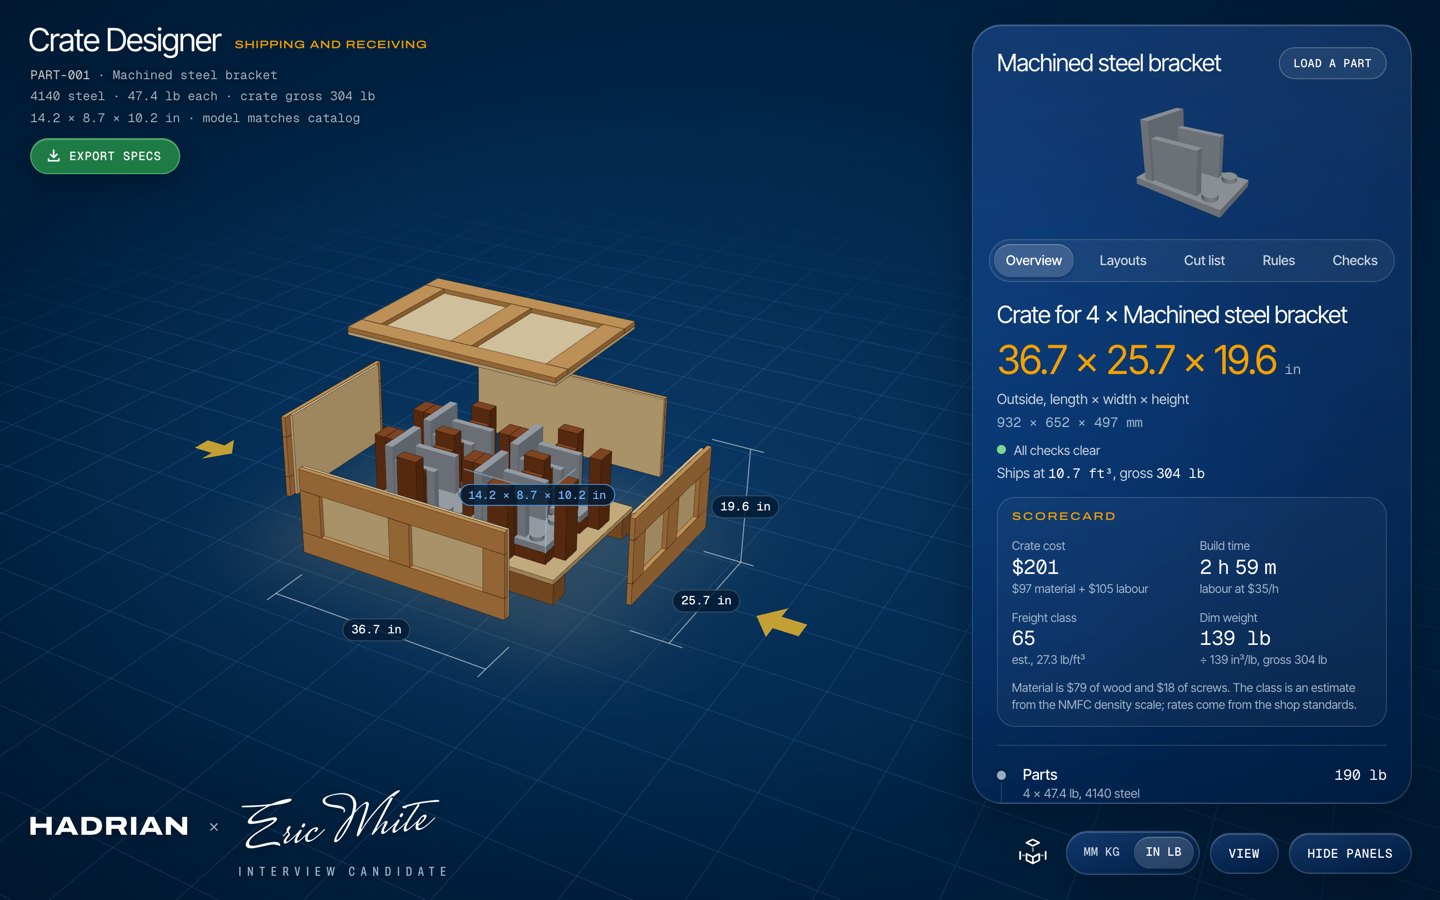
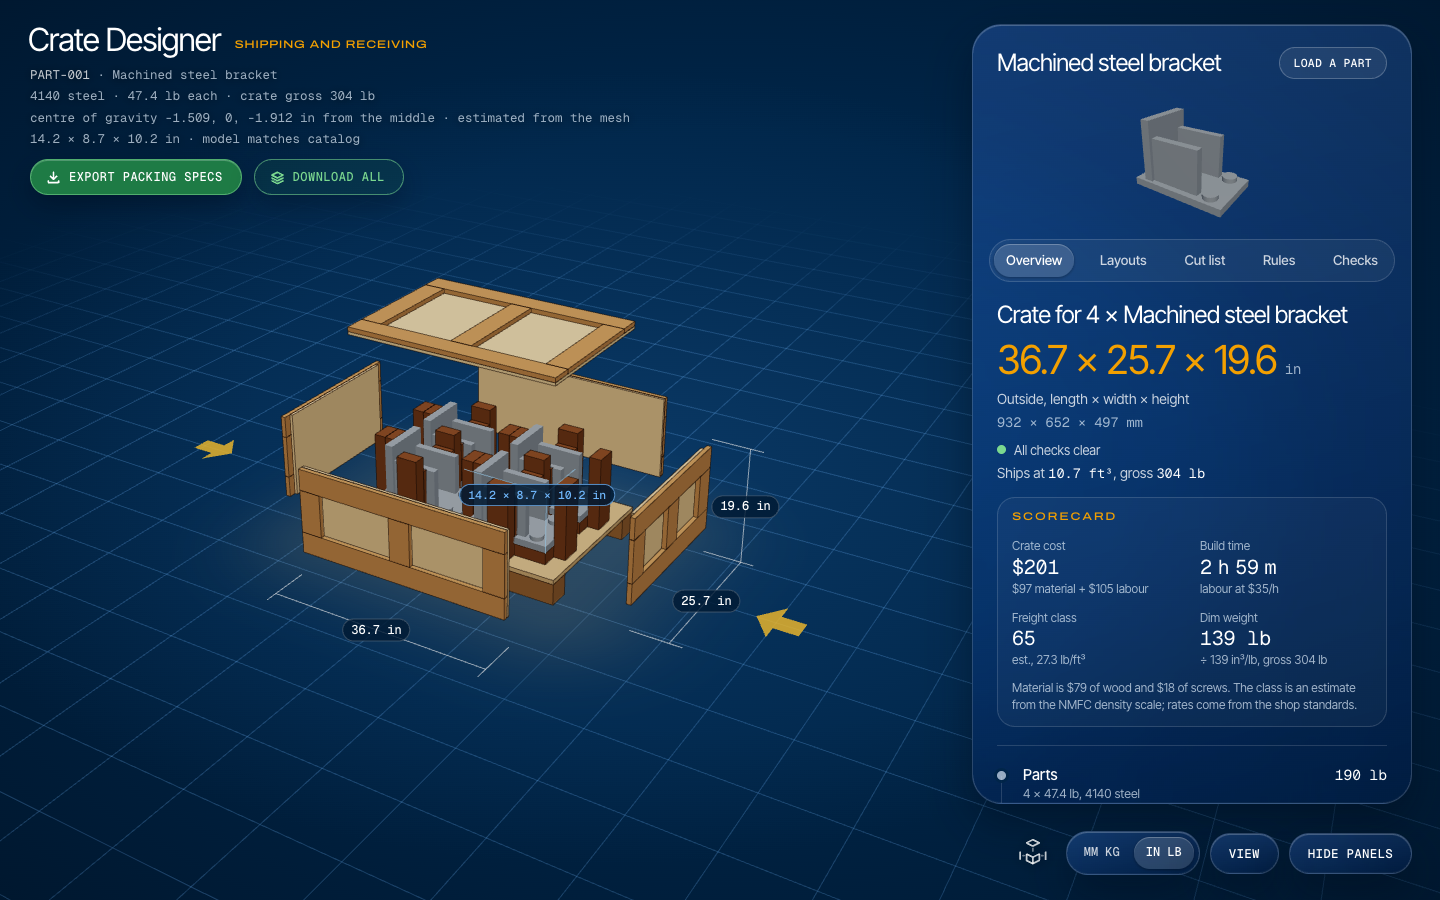
chore: remove the Hadrian credit, signature and brand references
- Remove the bottom-left credit ("HADRIAN × <name>" with the cursive
  signature) on desktop and at the foot of the mobile drawer, with its
  script font and the island's footer slot that only held it.
- Drop Hadrian from code comments, the README and the spec; the palette
  and type roles stay, described on their own.
- Update the two e2e tests that checked the credit.
- Retake the five desktop README screenshots without it.

diff --git a/src/components/shell/DesignerShell.tsx b/src/components/shell/DesignerShell.tsx
@@ -12,7 +12,6 @@ import { SizeLabels } from "../viewer/SizeLabels";
 import { StageMessage } from "../viewer/StageMessage";
 import { Flash } from "./ChangeFeedback";
 import { FileCheckDialog } from "./FileCheckDialog";
-import { Credit } from "./Credit";
 import styles from "./DesignerShell.module.css";
 import { PartHeader } from "./PartHeader";
 import { Tooltip } from "./Tooltip";
@@ -55,11 +54,10 @@ function useNarrow() {
 /**
  * Full-bleed layout: the 3D stage fills the window and four overlay regions
  * float above it — part title (top left), the island (upper right), the load
- * hint and credit (bottom left) and the view bar (bottom right).
+ * hint (bottom left) and the view bar (bottom right).
  *
  * Narrow screens: the stage still fills the window; the island becomes a right-side
- * drawer behind a hamburger, a summary chip shows the answer above a compact view bar, and the
- * credit moves to the foot of the drawer.
+ * drawer behind a hamburger, and a summary chip shows the answer above a compact view bar.
  */
 export function DesignerShell() {
   const panelsHidden = useView((s) => s.panelsHidden);
@@ -146,7 +144,7 @@ export function DesignerShell() {
       } else if (!island) {
         s.setInsets({ left: 0, top: 0, right: 0, bottom: 0 });
       } else if (s.panelsHidden) {
-        // Only the credit remains, bottom left; keep the crate above it.
+        // Only the view bar remains, bottom right; keep the crate above it.
         s.setInsets({ left: 0, top: 0, right: 0, bottom: FREE_BOTTOM });
       } else {
         s.setInsets({ left: FREE_LEFT, top: FREE_TOP, right: island.offsetWidth + ISLAND_GAP, bottom: FREE_BOTTOM });
@@ -235,9 +233,8 @@ export function DesignerShell() {
         />
         <ViewBar />
       </div>
-      {!narrow && <Credit />}
       {narrow && <div className={styles.scrim} data-testid="scrim" hidden={!drawerOpen} aria-hidden="true" onClick={closeDrawer} />}
-      <Island ref={islandRef} drawer={narrow ? { open: drawerOpen, onClose: closeDrawer } : undefined} footer={narrow ? <Credit inline /> : undefined} />
+      <Island ref={islandRef} drawer={narrow ? { open: drawerOpen, onClose: closeDrawer } : undefined} />
       <FileCheckDialog />
       {dragging && (
         <div className={styles.veil} data-testid="drop-veil">

diff --git a/src/app/layout.tsx b/src/app/layout.tsx
@@ -1,10 +1,10 @@
 import type { Metadata, Viewport } from "next";
-import { Archivo, Geist_Mono, Inter_Tight, Mrs_Saint_Delafield } from "next/font/google";
+import { Archivo, Geist_Mono, Inter_Tight } from "next/font/google";
 import "./globals.css";
 
 /*
- * Type roles follow hadrian.co, which uses Klim's Söhne family. Söhne is
- * licensed, so these are the closest open substitutes; see globals.css.
+ * Type roles were designed around Klim's Söhne family. Söhne is licensed, so
+ * these are the closest open substitutes; see globals.css.
  */
 
 /** Söhne → Inter Tight: display and body text. */
@@ -13,7 +13,7 @@ const sans = Inter_Tight({
   subsets: ["latin"],
 });
 
-/** Söhne Breit → Archivo, whose width axis covers both wide eyebrows (125%) and narrow labels (62%). */
+/** Söhne Breit → Archivo, at 125% width for the wide eyebrows. */
 const wide = Archivo({
   variable: "--font-wide",
   subsets: ["latin"],
@@ -23,13 +23,6 @@ const wide = Archivo({
 /** Söhne Mono → Geist Mono: measured values, labels and buttons. */
 const mono = Geist_Mono({
   variable: "--font-geist-mono",
-  subsets: ["latin"],
-});
-
-/** The credit signature. */
-const signature = Mrs_Saint_Delafield({
-  variable: "--font-signature",
-  weight: "400",
   subsets: ["latin"],
 });
 
@@ -54,7 +47,7 @@ export const viewport: Viewport = {
 
 export default function RootLayout({ children }: LayoutProps<"/">) {
   return (
-    <html lang="en" className={`${sans.variable} ${wide.variable} ${mono.variable} ${signature.variable}`}>
+    <html lang="en" className={`${sans.variable} ${wide.variable} ${mono.variable}`}>
       <body>{children}</body>
     </html>
   );

diff --git a/src/components/island/Island.tsx b/src/components/island/Island.tsx
@@ -1,7 +1,7 @@
 "use client";
 
 import dynamic from "next/dynamic";
-import { useMemo, useRef, type KeyboardEvent, type ReactNode, type Ref, type UIEvent } from "react";
+import { useMemo, useRef, type KeyboardEvent, type Ref, type UIEvent } from "react";
 import { allChecks, cautionCount } from "@/lib/checks";
 import { countsText, type FileReport } from "@/lib/fileCheckReport";
 import type { ChangeSource } from "@/state/designEvents";
@@ -75,9 +75,9 @@ export interface DrawerProps {
  * and the selected tab's panel — the only thing on the page that scrolls.
  *
  * With `drawer` (narrow screens) it is a right-side modal dialog with a close button, inert
- * while closed. `footer` renders below the panel (the credit, on narrow screens).
+ * while closed.
  */
-export function Island({ ref, drawer, footer }: { ref: Ref<HTMLElement>; drawer?: DrawerProps; footer?: ReactNode }) {
+export function Island({ ref, drawer }: { ref: Ref<HTMLElement>; drawer?: DrawerProps }) {
   const part = useDesigner((s) => s.part);
   const selected = useView((s) => s.tab);
   const design = useDesigner((s) => s.result.design);
@@ -222,8 +222,6 @@ export function Island({ ref, drawer, footer }: { ref: Ref<HTMLElement>; drawer?
         ) : (
           <ChecksTab checks={checks} />
         )}
-        {/* The credit scrolls with the content: pinned, it cost a phone 69 px of a 505 px panel. */}
-        {footer && <div className={styles.foot}>{footer}</div>}
       </div>
     </aside>
   );

diff --git a/e2e/view-controls.spec.ts b/e2e/view-controls.spec.ts
@@ -102,9 +102,8 @@ test("switches and Pull apart change the scene", async ({ page }) => {
   expect((await crate(page)).mode).toBeNull();
 });
 
-test("Hide panels hides the island, header and Export pill for real, but keeps the credit", async ({ page }) => {
+test("Hide panels hides the island, header and Export pill for real", async ({ page }) => {
   const before = await crate(page);
-  const credit = page.getByLabel("Hadrian × Eric White, interview candidate");
   await hidePanelsButton(page).click();
 
   await expect(showPanelsButton(page)).toBeVisible();
@@ -126,9 +125,6 @@ test("Hide panels hides the island, header and Export pill for real, but keeps t
     expect(focused.inside).toBe(false);
     expect(focused.label).not.toMatch(/^(View|mm kg|in lb|Export Packing Specs)|view\. Click for/);
   }
-  await expect(credit).toBeVisible();
-  await expect(credit).toHaveCSS("opacity", "1");
-  await expect(credit).toContainText("HADRIAN");
   // The crate is re-framed for the bigger free area.
   await pollCrate(page, (s) => s.cameraDistance).not.toBeCloseTo(before.cameraDistance!, 2);
   await shot(page, "view-controls-panels-hidden");

diff --git a/e2e/drawer.mobile.spec.ts b/e2e/drawer.mobile.spec.ts
@@ -213,20 +213,15 @@ test("all five tabs fit the drawer without scrolling or clipping, with a caution
   );
 });
 
-test("scrolling the drawer folds the part thumbnail away and returns it at the top; the credit scrolls with the content", async ({ page }) => {
+test("scrolling the drawer folds the part thumbnail away and returns it at the top", async ({ page }) => {
   await openApp(page);
   await openDrawer(page);
   await openTab(page, "Cut list");
   const thumb = drawer(page).getByRole("group", { name: /The part on its own/ });
-  const credit = drawer(page).getByLabel("Hadrian × Eric White, interview candidate");
   await expect(thumb).toBeVisible();
-  // The credit is the last thing in the scrolling panel, not pinned under it.
-  await expect(credit).not.toBeInViewport();
   const tabpanel = panel(page);
   await tabpanel.evaluate((el) => el.scrollTo(0, 120));
   await expect(thumb).toBeHidden();
-  await tabpanel.evaluate((el) => el.scrollTo(0, el.scrollHeight));
-  await expect(credit).toBeInViewport();
   await tabpanel.evaluate((el) => el.scrollTo(0, 0));
   await expect(thumb).toBeVisible();
 });

diff --git a/src/app/globals.css b/src/app/globals.css
@@ -11,7 +11,7 @@
 
 /*
  * Crate Designer visual system. Layout and glass from docs/design-handoff;
- * colours and type roles from hadrian.co:
+ * colours and type roles:
  *   navy #002548 ground, white text, gold #F3A000 accent, sky #70B8FD lines.
  *   Söhne (display/body) → Inter Tight; Söhne Breit (wide eyebrows) → Archivo
  *   at 125% width; Söhne Mono (labels, buttons) → Geist Mono. Söhne is a
@@ -52,7 +52,6 @@
   --sans: var(--font-sans), "Helvetica Neue", Arial, sans-serif;
   --wide: var(--font-wide), "Helvetica Neue", Arial, sans-serif;
   --mono: var(--font-geist-mono), ui-monospace, Menlo, monospace;
-  --signature: var(--font-signature), "Snell Roundhand", cursive;
   --pad: 28px;
   /* Smallest comfortable touch target. */
   --touch: 44px;

diff --git a/src/components/shell/DesignerShell.module.css b/src/components/shell/DesignerShell.module.css
@@ -1,6 +1,6 @@
 /*
  * The shell's own pieces: the full-bleed stage, the file-drop veil, and the narrow-screen foot,
- * hamburger, summary chip and scrim. The overlays (header, island, view bar, credit) own their
+ * hamburger, summary chip and scrim. The overlays (header, island, view bar) own their
  * styles. They react to Hide panels through the `data-panels-hidden` attribute on the shell root.
  *
  * Narrow (`max-width: 980px`, matching `NARROW` in DesignerShell.tsx): the scene stays full-bleed;

diff --git a/src/components/viewer/Floor.tsx b/src/components/viewer/Floor.tsx
@@ -70,7 +70,7 @@ export function Floor({ external, units }: { external: Vec3; units: Units }) {
         uniform float uRadius; varying vec2 vP;
         void main() {
           float a = 1.0 - smoothstep(uRadius * 0.35, uRadius, length(vP));
-          // Hadrian sky blue, like the line art on hadrian.co.
+          // Sky blue, the line colour (--sky).
           gl_FragColor = vec4(0.44, 0.72, 0.99, 0.24 * a);
         }`,
     });

diff --git a/src/components/viewer/scene.ts b/src/components/viewer/scene.ts
@@ -26,7 +26,7 @@ export const CAMERA_FAR_M = 200;
 export { cloneWithMaterial, partMaterial, WOOD } from "@/lib/sceneMaterials";
 
 export const EDGE = new Color("#291a0a");
-/** Selection: Hadrian sky blue. */
+/** Selection: sky blue. */
 export const ICE = new Color("#70b8fd");
 export const ICE_EDGE = new Color("#e3f1ff");
 export const GHOST_EDGE = new Color("#d9ccb3");

diff --git a/src/components/island/Island.module.css b/src/components/island/Island.module.css
@@ -292,12 +292,6 @@
   .panel button {
     min-height: var(--touch);
   }
-  /* The credit is the last thing in the scrolling panel (`Credit` with `inline`). */
-  .foot {
-    margin-top: 18px;
-    padding-top: 8px;
-    border-top: 1px solid var(--hair);
-  }
 }
 
 /*

diff --git a/docs/SPECIFICATION.md b/docs/SPECIFICATION.md
@@ -10,7 +10,7 @@
 
 ## 1. Problem
 
-Hadrian ships precision metal parts. Heavy or large parts go in custom wooden crates, designed
+The shop ships precision metal parts. Heavy or large parts go in custom wooden crates, designed
 around the part's geometry. A crate may hold one part, a few identical parts, or a whole batch.
 It must protect the contents in transit while staying cheap to build, easy to handle and
 economical to ship. Today this takes someone who understands the part's geometry, material and
@@ -2547,15 +2547,14 @@ with the 3D view as the main element and detail one click away.
 
 ### 8.1 Visual system
 
-Layout, glass and behaviour come from the design handoff. **Colours and type come from
-hadrian.co**, read from its live CSS:
+Layout, glass and behaviour come from the design handoff. Colours and type:
 
 - **Colours:**
-  - **Ground:** Hadrian navy `#002548`, lifted toward `#13497D` behind the crate, with a vignette.
+  - **Ground:** navy `#002548`, lifted toward `#13497D` behind the crate, with a vignette.
   - **Text:** white, with soft and muted variants.
   - **Gold `#F3A000`** marks the answer, warnings, the tagline and the cut-list group headers.
   - **Sky blue `#70B8FD`** marks selection (highlighted boards, pinned rows, part dimension
-    lines). It is also the floor grid colour, echoing Hadrian's blueprint line art.
+    lines). It is also the floor grid colour, like blueprint line art.
   - **Green `#7BD88F`** marks passed checks. The Export pill (#51) is filled with it deepened
     to `#1E7B45` (`--green-fill`; hover `#1A6B3C`), so its white label passes AA (5.3:1), with
     a `--green` border.
@@ -2563,16 +2562,14 @@ hadrian.co**, read from its live CSS:
   `blur(16px) saturate(170%)`, a 1 px border, an inset highlight and a drop shadow. Islands
   have a 30 px radius; pills are fully round. The translucency is deliberate; don't make it more
   opaque.
-- **Type:** Hadrian uses Klim's **Söhne** family, which is a licensed typeface. The app uses the
-  closest open fonts, all through `next/font/google`:
+- **Type:** the type roles were designed around Klim's **Söhne** family, which is a licensed
+  typeface. The app uses the closest open fonts, all through `next/font/google`:
 
-  | Hadrian | Role | Here |
+  | Söhne | Role | Here |
   |---|---|---|
   | Söhne | Display and body; headings at weight 400 with −0.03em tracking | **Inter Tight** |
-  | Söhne Breit | Wide uppercase eyebrows (tagline, cut-list groups, the HADRIAN credit) | **Archivo** at `font-stretch: 125%` |
+  | Söhne Breit | Wide uppercase eyebrows (tagline, cut-list groups) | **Archivo** at `font-stretch: 125%` |
   | Söhne Mono | Measured values, and uppercase button labels | **Geist Mono** |
-  | — | Narrow label under the signature | **Archivo** at `font-stretch: 62%` |
-  | — | Credit signature | **Mrs Saint Delafield** |
 
   To use real Söhne, license it and point `--font-sans`, `--font-wide` and the mono variable at
   `next/font/local` in `src/app/layout.tsx`.
@@ -2594,13 +2591,12 @@ hadrian.co**, read from its live CSS:
 
 ### 8.2 Layout
 
-The canvas fills the window. Four regions float above it:
+The canvas fills the window. Three regions float above it:
 
 | Region | Contents |
 |---|---|
 | Top left (no glass) | "Crate Designer", the tagline, then the part as a mono sentence: id · name; material · mass each · crate gross; measured size · model check; then the change note (§8.5a), then the green **Export** pill (#51, §7.13), left-aligned with the lines, with its status note beside it. Unknown parts get inline underlined name, material and mass fields in the same sentence (§8.5) |
 | Upper right island (440 px) | Part name + "Load a part"; the turntable part view (170 px), which folds away (0.25 s, none with reduced motion) once the panel is scrolled, and altogether in windows under 760 px tall, so a laptop gets the room for content (#62); the tabs; the selected tab's panel, which is the only thing that scrolls. The island keeps its fixed height |
-| Bottom left (no glass) | The credit: "HADRIAN × Eric White", with the name as a solid cursive signature tilted 6° up from the left (`Credit.tsx`), and "Interview Candidate" in narrow Archivo beneath, letter-spaced with SVG `textLength` to span exactly the signature's on-screen width (measured after the script font loads).  |
 | Bottom right view bar | Pin bar (when pinned), mode icon, units (mm kg / in lb; in lb by default, remembered per browser, §4), View popover, Hide panels |
 
 - **Crate centring:** the crate is centred in the area the overlays leave free, not in the

diff --git a/README.md b/README.md
@@ -12,7 +12,6 @@ A browser app that designs **custom wooden shipping crates** for one or more ide
 parts. Load a part (a GLB, with an optional `parts.json` entry) and a quantity: it packs the parts,
 builds a crate around them from plywood, lumber and wood screws, shows it in 3D, checks it, prices
 it, and exports the packing specs for the shop: a cut list, a build sheet and a shipping label.
-Built for Hadrian's Shipping Crate Designer exercise.
 
 ![The crate pulled apart in 3D: four brackets held by blocking, with the size, checks, cost, build time and freight class beside it](docs/screenshots/readme/exploded.png)
 
